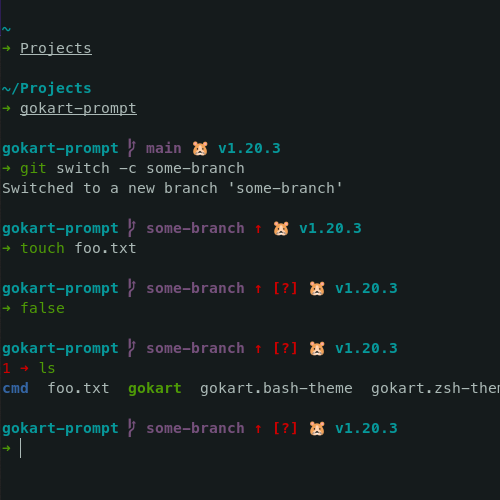
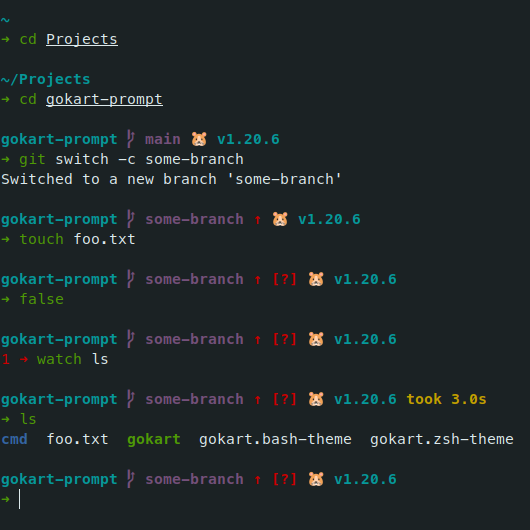
Add command execution time (#15)

Changed region(s): [[0.0, 0.03, 1.0, 0.96]]

diff --git a/internal/execTime.go b/internal/execTime.go
@@ -1,0 +1,32 @@
+package internal
+
+import (
+	"fmt"
+	"gokart-prompt/internal/ansi"
+	"os"
+	"strconv"
+)
+
+func CmdTime() string {
+	// If no command was entered, never display the time.
+	if os.Getenv("GOKART_CMD") == "" {
+		return ""
+	}
+
+	// Try to parse the command start and end times.
+	cmdStart, err := strconv.ParseFloat(os.Getenv("GOKART_CMD_START"), 64)
+	if err != nil {
+		return ""
+	}
+	cmdEnd, err := strconv.ParseFloat(os.Getenv("GOKART_CMD_END"), 64)
+	if err != nil {
+		return ""
+	}
+
+	execTime := cmdEnd - cmdStart
+	if execTime < 1 {
+		return ""
+	}
+
+	return ansi.Color(ansi.Yellow, " took "+fmt.Sprintf("%.1f", execTime)+"s")
+}

diff --git a/cmd/gokart.go b/cmd/gokart.go
@@ -34,8 +34,9 @@ func ps1() {
 	fmt.Print(internal.Path())
 	fmt.Print(git.Git())
 	fmt.Print(versions.All(wdFiles))
-	fmt.Print(ansi.Reset())
+	fmt.Print(internal.CmdTime())
 
+	fmt.Print(ansi.Reset())
 	fmt.Println()
 	ps2()
 }

diff --git a/README.md b/README.md
@@ -60,6 +60,7 @@ This should print a "branch" icon.
 
 - Git branch and status information
 - Command exit code
+- Command execution time[^zsh-only]
 - Version information for various tools and languages
   - Docker
   - .NET
@@ -70,6 +71,8 @@ This should print a "branch" icon.
   - Python
   - Ruby
   - Rust
+
+[^zsh-only]: Only in Zsh, due to limitations of Bash. 
 
 Is something missing?
 Feel free to [open an issue](https://github.com/LucaScorpion/gokart-prompt/issues/new) or send a pull request!
